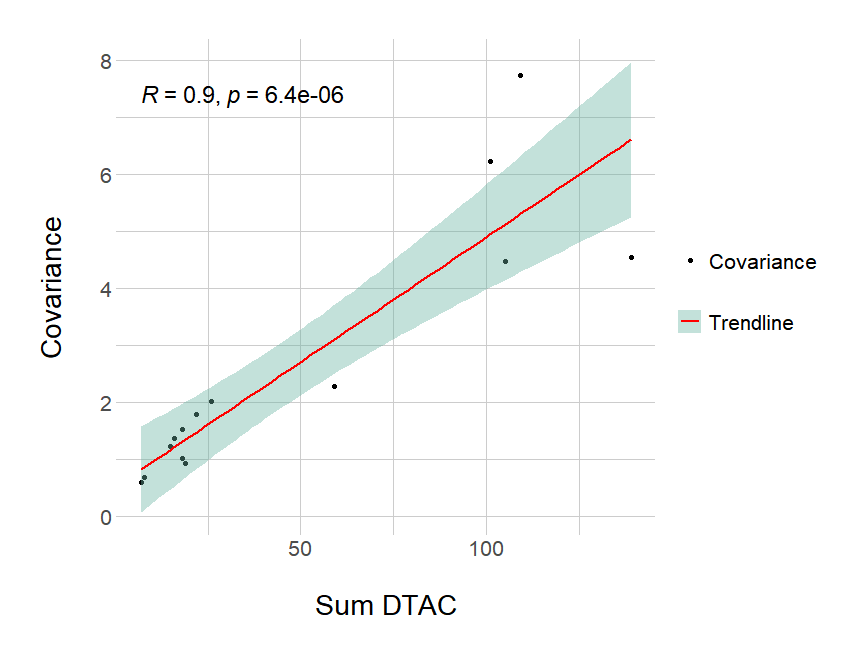
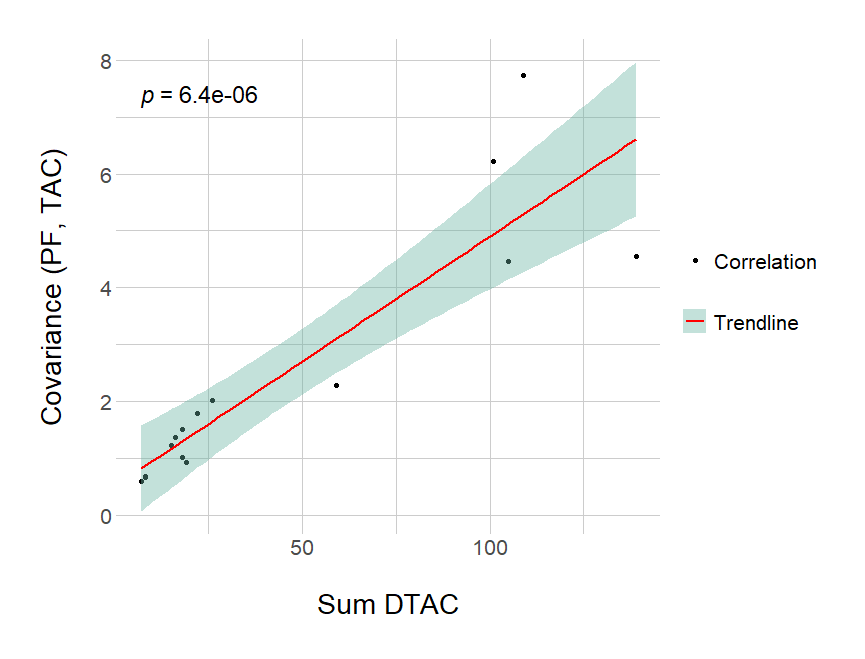
Update sentitivity figures and captions

diff --git a/Thesis/sections/5.Experiments.tex b/Thesis/sections/5.Experiments.tex
@@ -305,12 +305,12 @@ With the data obtained from running the experiment, we calculate the covariance 
 \end{table}
 
 \unsure{Here, should I add a table with all the coefficients? Or maybe add them to the previous table?}
-In addition, we also calculate the \textit{Pearson correlation coefficient} \cite{everitt2002cambridge}. The values of the correlation range from $0.941282$ to $1$ for \texttt{TMIC}, and from $0.9445726$ to $1$ for \texttt{TAC}. Figures \ref{fig:correlation-tmic} and \ref{fig:correlation-tac} show the correlation between the \textit{propagation factor} and the values of the metrics \texttt{TMIC} and \texttt{TAC} for the client library \textit{fr.inria.gforge.spoon:spoon-core:8.2.0} and the server library \textit{org.eclipse.platform:org.eclipse.osgi:3.16.0}.
+In addition, we also calculate the \textit{Pearson correlation coefficient} \cite{everitt2002cambridge}. The values of the correlation range from $0.941282$ to $1$ for \texttt{TMIC}, and from $0.9446$ to $1$ for \texttt{TAC}. Figures \ref{fig:correlation-tmic} and \ref{fig:correlation-tac} show the correlation between the \textit{propagation factor} and the values of the metrics \texttt{TMIC} and \texttt{TAC} for the client library \textit{fr.inria.gforge.spoon:spoon-core:8.2.0} and the server library \textit{org.eclipse.platform:org.eclipse.osgi:3.16.0}.
 
 \begin{figure}[ht!]
 \begin{center}
 \includegraphics[width=0.75\textwidth]{figures/results/Rplot_spoon-core_eclipse-osgi_TMIC.png}
-\caption{Correlation between \textit{propagation factor} and \texttt{TMIC}. \textit{R} is the Pearson correlation coefficient, and \textit{p} corresponds to the confidence interval}
+\caption{Plot \textit{propagation factor} vs \texttt{TMIC}, with regression line. \textit{R} is the Pearson correlation coefficient, and \textit{p} corresponds to the confidence interval}
 \label{fig:correlation-tmic}
 \end{center}
 \end{figure}
@@ -318,13 +318,13 @@ In addition, we also calculate the \textit{Pearson correlation coefficient} \cit
 \begin{figure}[ht!]
 \begin{center}
 \includegraphics[width=0.75\textwidth]{figures/results/Rplot_spoon-core_eclipse-osgi_TAC.png}
-\caption{Correlation between \textit{propagation factor} and \texttt{TAC}. \textit{R} is the Pearson correlation coefficient, and \textit{p} corresponds to the confidence interval}
+\caption{Plot \textit{propagation factor} vs \texttt{TAC}, with regression line. \textit{R} is the Pearson correlation coefficient, and \textit{p} corresponds to the confidence interval}
 \label{fig:correlation-tac}
 \end{center}
 \end{figure}
 
 \subsection{Discussion}
-The sensitivity analysis results indicate a high sensitivity of the two coupling metrics to the propagation factor since there is a high correlation between these two values, the \textit{Pearson correlation coefficient} is always higher than $0.94$ (see Table \ref{fig:correlation-tmic}).
+The sensitivity analysis results indicate a high sensitivity of the two coupling metrics to the propagation factor since there is a high correlation between these two values, the \textit{Pearson correlation coefficient} is always higher than $0.94$ (see Table \ref{table:covariance-sensitivity}).
 
 \begin{finding}
 	The value of the metrics \texttt{TMIC} and \texttt{TAC} is highly sensitive to the value of the \textit{propagation factor}.
@@ -336,7 +336,7 @@ In Table \ref{table:covariance-sensitivity}, we can see that the values of the c
 \begin{figure}[ht!]
 \begin{center}
 \includegraphics[width=0.7\textwidth]{figures/results/covariance-values-tmic.png}
-\caption{Correlation between the covariance of \textit{propagation factor} and \texttt{TMIC} and the sumation of the coupling measured at each distance (\texttt{DTMIC}). \textit{R} is the Pearson correlation coefficient, and \textit{p} corresponds to the confidence interval}
+\caption{Plot of the sumation of the coupling measured at each distance (\texttt{DTMIC}) vs the covariance of \textit{propagation factor} and \texttt{TMIC}. \textit{p} corresponds to the confidence interval}
 \label{fig:cov-value-tmic}
 \end{center}
 \end{figure}
@@ -344,7 +344,7 @@ In Table \ref{table:covariance-sensitivity}, we can see that the values of the c
 \begin{figure}[ht!]
 \begin{center}
 \includegraphics[width=0.7\textwidth]{figures/results/covariance-values-tac.png}
-\caption{Correlation between the covariance of \textit{propagation factor} and \texttt{TAC} and the sumation of the coupling measured at each distance (\texttt{DTAC}). \textit{R} is the Pearson correlation coefficient, and \textit{p} corresponds to the confidence interval}
+\caption{Plot of the sumation of the coupling measured at each distance (\texttt{DTAC}) vs the covariance of \textit{propagation factor} and \texttt{TAC}. \textit{p} corresponds to the confidence interval}
 \label{fig:cov-value-tac}
 \end{center}
 \end{figure}
@@ -354,7 +354,7 @@ Finally, in the results of the correlation coefficient between the propagation f
 \begin{figure}[ht!]
 \begin{center}
 \includegraphics[width=0.7\textwidth]{figures/results/correlation_max_distance_TMIC.png}
-\caption{Correlation between the correlation of \textit{propagation factor} and \texttt{TMIC} and the maximum distance at which coupling is measured. \textit{R} is the Pearson correlation coefficient, and \textit{p} corresponds to the confidence interval}
+\caption{Plot of the maximum distance at which coupling is measured vs the correlation of \textit{propagation factor} and \texttt{TMIC}. \textit{p} corresponds to the confidence interval}
 \label{fig:cor-dist-tmic}
 \end{center}
 \end{figure}
@@ -362,7 +362,7 @@ Finally, in the results of the correlation coefficient between the propagation f
 \begin{figure}[ht!]
 \begin{center}
 \includegraphics[width=0.7\textwidth]{figures/results/correlation_max_distance_TAC.png}
-\caption{Correlation between the correlation of \textit{propagation factor} and \texttt{TAC} and the maximum distance at which coupling is measured. \textit{R} is the Pearson correlation coefficient, and \textit{p} corresponds to the confidence interval}
+\caption{Plot of the maximum distance at which coupling is measured vs the correlation of \textit{propagation factor} and \texttt{TAC}. \textit{p} corresponds to the confidence interval}
 \label{fig:cor-dist-tac}
 \end{center}
 \end{figure}
